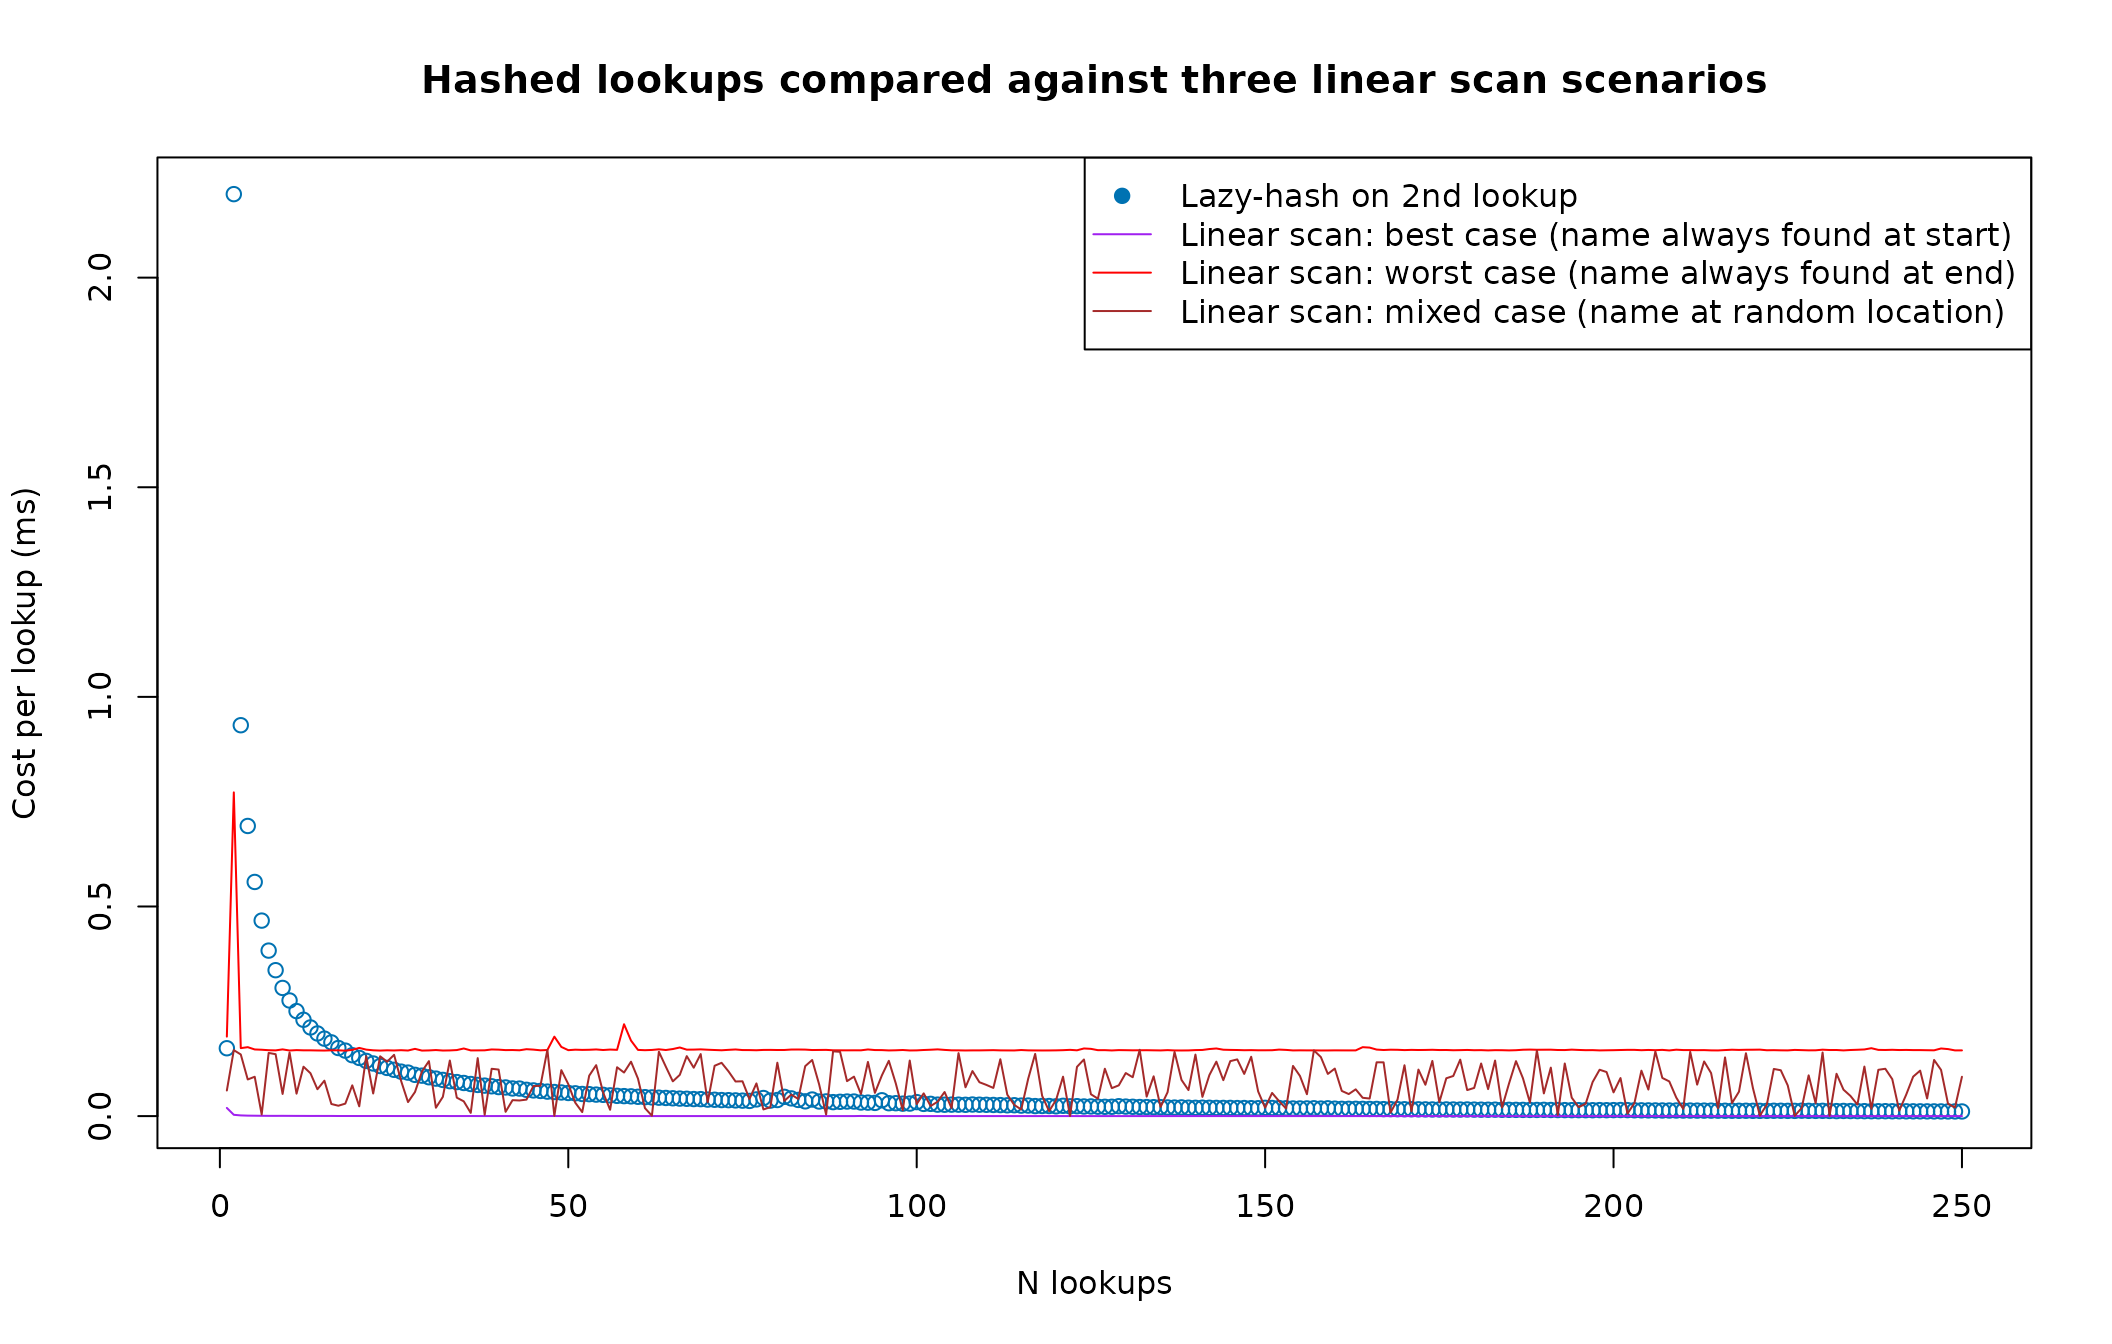
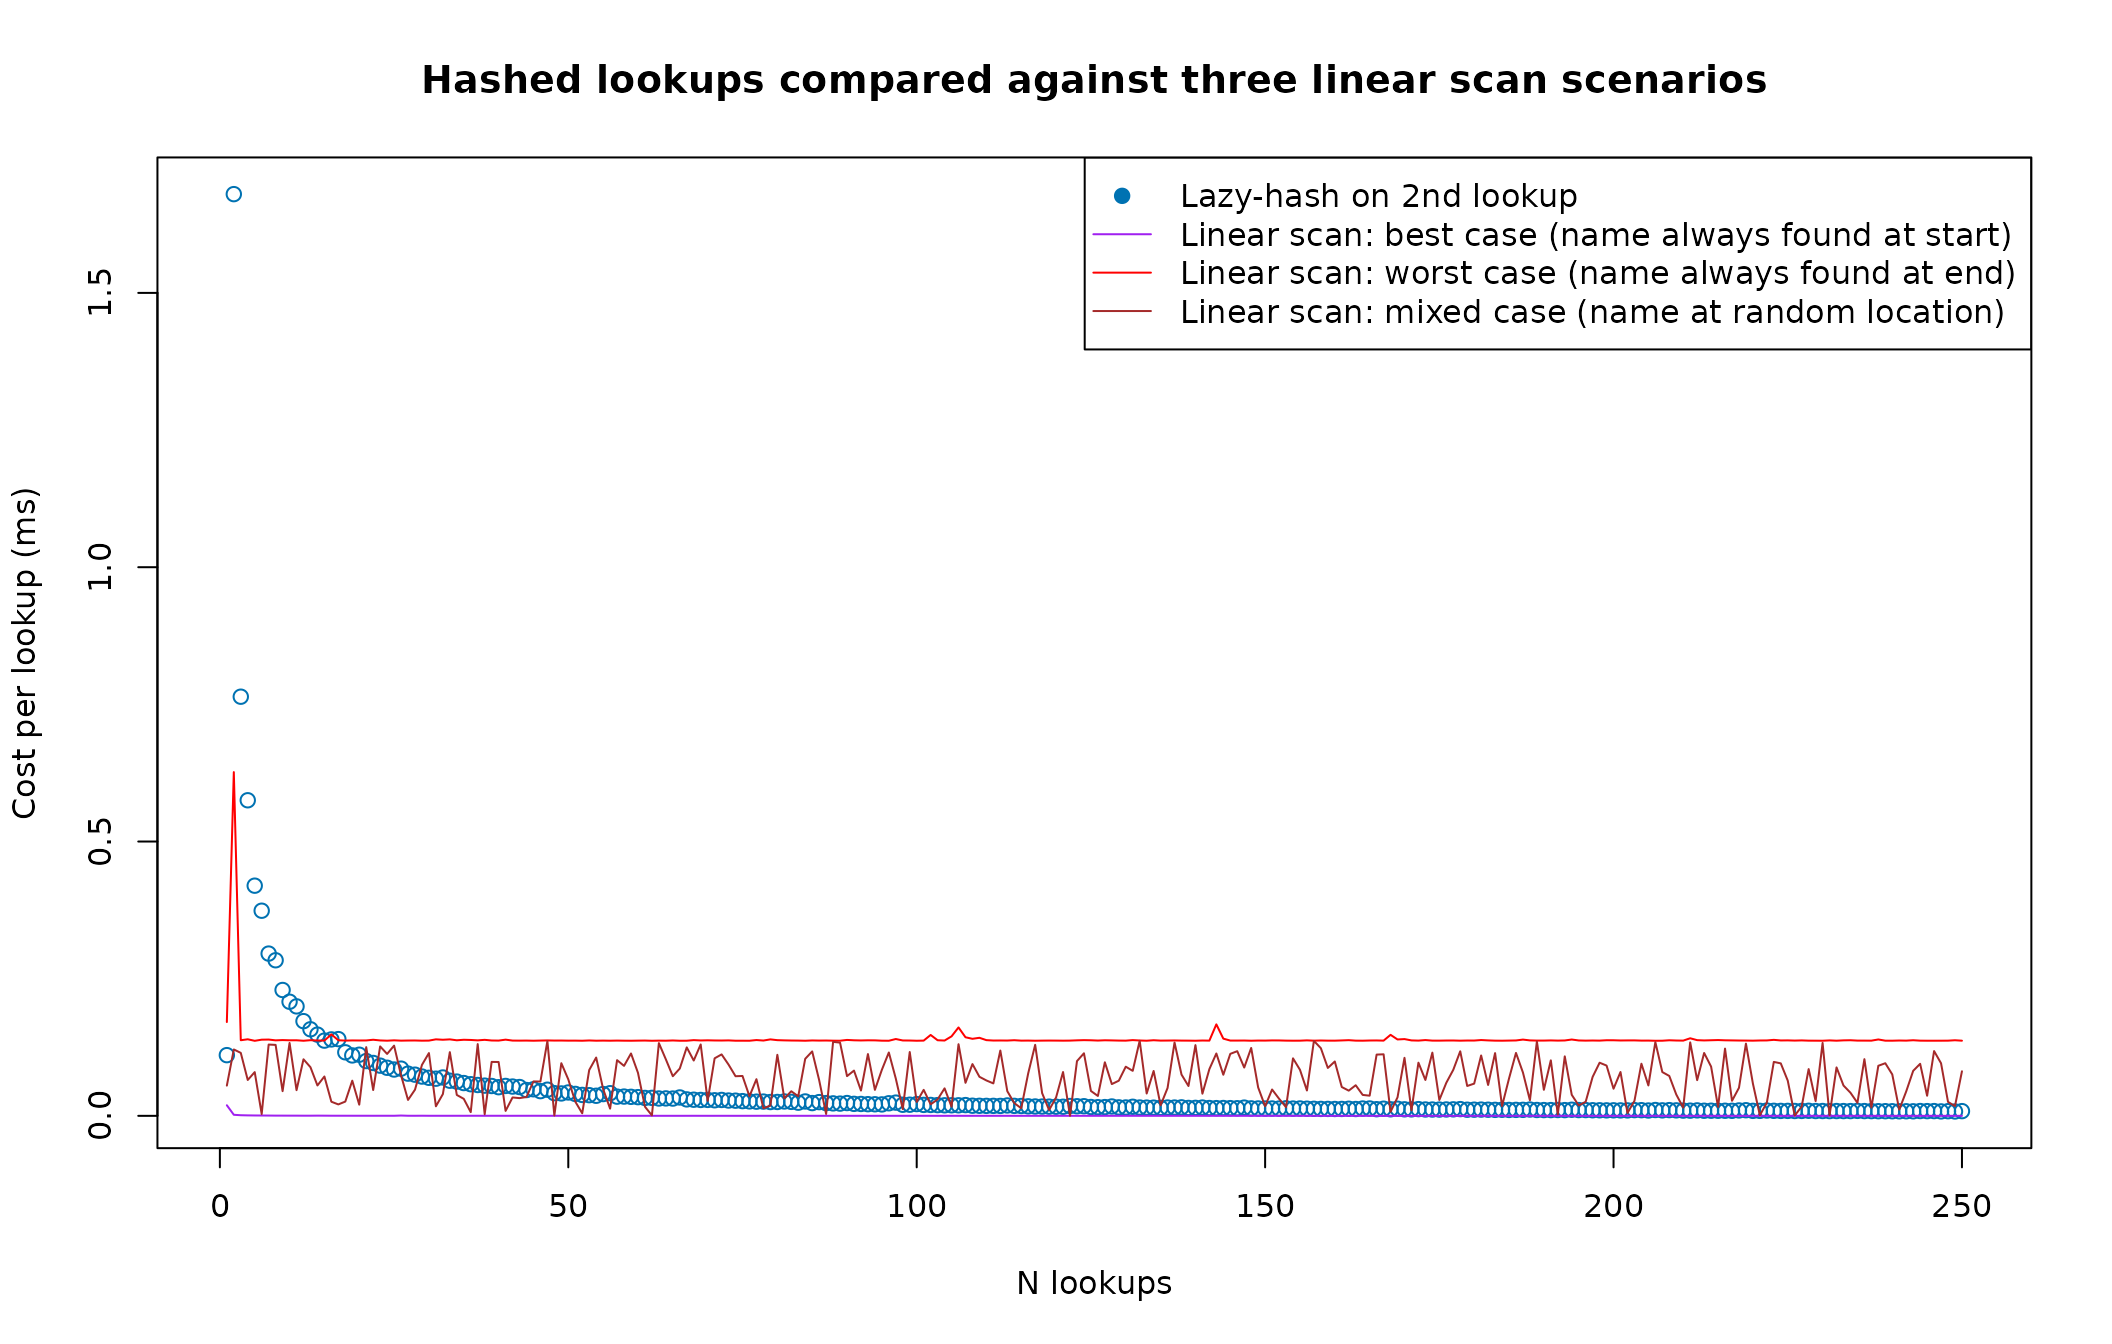
Deploying to gh-pages from @ NicChr/cppally@c7691c83b9be47e6edefd5938c57328c3f27da44 🚀

diff --git a/articles/protection.html b/articles/protection.html
@@ -144,12 +144,12 @@ optimisations.</p>
 <div class="sourceCode" id="cb4"><pre class="downlit sourceCode r">
 <code class="sourceCode R"><span><span class="va">insert_release_cpp11</span> <span class="op">&lt;-</span> <span class="fu"><a href="https://rdrr.io/r/base/lapply.html" class="external-link">replicate</a></span><span class="op">(</span><span class="fl">10</span><span class="op">^</span><span class="fl">4</span>, <span class="fu">bench_protect_insert_release_cpp11</span><span class="op">(</span><span class="fl">10</span><span class="op">^</span><span class="fl">4</span><span class="op">)</span><span class="op">)</span> </span>
 <span><span class="fu"><a href="https://rdrr.io/r/base/mean.html" class="external-link">mean</a></span><span class="op">(</span><span class="va">insert_release_cpp11</span><span class="op">)</span></span>
-<span><span class="co">#&gt; [1] 40.01544</span></span>
+<span><span class="co">#&gt; [1] 39.21264</span></span>
 <span><span class="va">insert_release_cppally</span> <span class="op">&lt;-</span> <span class="fu"><a href="https://rdrr.io/r/base/lapply.html" class="external-link">replicate</a></span><span class="op">(</span><span class="fl">10</span><span class="op">^</span><span class="fl">4</span>, <span class="fu">bench_protect_insert_release_cppally</span><span class="op">(</span><span class="fl">10</span><span class="op">^</span><span class="fl">4</span><span class="op">)</span><span class="op">)</span></span>
 <span><span class="fu"><a href="https://rdrr.io/r/base/mean.html" class="external-link">mean</a></span><span class="op">(</span><span class="va">insert_release_cppally</span><span class="op">)</span></span>
-<span><span class="co">#&gt; [1] 16.31846</span></span></code></pre></div>
-<p>On my machine, cpp11 performs an insert &amp; release every ~40
-nanoseconds. cppally performs better, with ~16 nanoseconds per insert
+<span><span class="co">#&gt; [1] 13.7383</span></span></code></pre></div>
+<p>On my machine, cpp11 performs an insert &amp; release every ~39
+nanoseconds. cppally performs better, with ~14 nanoseconds per insert
 &amp; release.</p>
 <p><strong>Copy benchmark</strong></p>
 <div class="sourceCode" id="cb5"><pre class="sourceCode cpp"><code class="sourceCode cpp"><span id="cb5-1"><a href="#cb5-1" tabindex="-1"></a></span>
@@ -195,10 +195,10 @@ nanoseconds. cppally performs better, with ~16 nanoseconds per insert
 <div class="sourceCode" id="cb7"><pre class="downlit sourceCode r">
 <code class="sourceCode R"><span><span class="va">copy_sexp_cpp11</span> <span class="op">&lt;-</span> <span class="fu"><a href="https://rdrr.io/r/base/lapply.html" class="external-link">replicate</a></span><span class="op">(</span><span class="fl">10</span><span class="op">^</span><span class="fl">4</span>, <span class="fu">bench_protect_copy_cpp11</span><span class="op">(</span><span class="fl">10</span><span class="op">^</span><span class="fl">4</span><span class="op">)</span><span class="op">)</span></span>
 <span><span class="fu"><a href="https://rdrr.io/r/base/mean.html" class="external-link">mean</a></span><span class="op">(</span><span class="va">copy_sexp_cpp11</span><span class="op">)</span></span>
-<span><span class="co">#&gt; [1] 37.97081</span></span>
+<span><span class="co">#&gt; [1] 37.50079</span></span>
 <span><span class="va">copy_sexp_cppally</span> <span class="op">&lt;-</span> <span class="fu"><a href="https://rdrr.io/r/base/lapply.html" class="external-link">replicate</a></span><span class="op">(</span><span class="fl">10</span><span class="op">^</span><span class="fl">4</span>, <span class="fu">bench_protect_copy_cppally</span><span class="op">(</span><span class="fl">10</span><span class="op">^</span><span class="fl">4</span><span class="op">)</span><span class="op">)</span></span>
 <span><span class="fu"><a href="https://rdrr.io/r/base/mean.html" class="external-link">mean</a></span><span class="op">(</span><span class="va">copy_sexp_cppally</span><span class="op">)</span></span>
-<span><span class="co">#&gt; [1] 0.3161358</span></span></code></pre></div>
+<span><span class="co">#&gt; [1] 0.275465</span></span></code></pre></div>
 <p>In these benchmark results we can see a drastic difference, with
 cpp11 at ~38 ns/copy and cppally at ~0.3 ns/copy.</p>
 <p><strong>Impact of protection overhead, a real example</strong></p>
@@ -259,21 +259,21 @@ values in a character vector</p>
 <span><span class="co">#&gt; <span style="color: #949494;"># A tibble: 1 × 6</span></span></span>
 <span><span class="co">#&gt;   expression         min   median `itr/sec` mem_alloc `gc/sec`</span></span>
 <span><span class="co">#&gt;   <span style="color: #949494; font-style: italic;">&lt;bch:expr&gt;</span>    <span style="color: #949494; font-style: italic;">&lt;bch:tm&gt;</span> <span style="color: #949494; font-style: italic;">&lt;bch:tm&gt;</span>     <span style="color: #949494; font-style: italic;">&lt;dbl&gt;</span> <span style="color: #949494; font-style: italic;">&lt;bch:byt&gt;</span>    <span style="color: #949494; font-style: italic;">&lt;dbl&gt;</span></span></span>
-<span><span class="co">#&gt; <span style="color: #BCBCBC;">1</span> C_na_count(x)   35.6µs   63.6µs    <span style="text-decoration: underline;">15</span>542.        0B        0</span></span></code></pre></div>
+<span><span class="co">#&gt; <span style="color: #BCBCBC;">1</span> C_na_count(x)   31.2µs   55.5µs    <span style="text-decoration: underline;">17</span>916.        0B        0</span></span></code></pre></div>
 <p><strong>cpp11 results</strong></p>
 <div class="sourceCode" id="cb13"><pre class="downlit sourceCode r">
 <code class="sourceCode R"><span><span class="fu"><a href="https://bench.r-lib.org/reference/mark.html" class="external-link">mark</a></span><span class="op">(</span><span class="fu">cpp11_na_count</span><span class="op">(</span><span class="va">x</span><span class="op">)</span><span class="op">)</span></span>
 <span><span class="co">#&gt; <span style="color: #949494;"># A tibble: 1 × 6</span></span></span>
 <span><span class="co">#&gt;   expression             min   median `itr/sec` mem_alloc `gc/sec`</span></span>
 <span><span class="co">#&gt;   <span style="color: #949494; font-style: italic;">&lt;bch:expr&gt;</span>        <span style="color: #949494; font-style: italic;">&lt;bch:tm&gt;</span> <span style="color: #949494; font-style: italic;">&lt;bch:tm&gt;</span>     <span style="color: #949494; font-style: italic;">&lt;dbl&gt;</span> <span style="color: #949494; font-style: italic;">&lt;bch:byt&gt;</span>    <span style="color: #949494; font-style: italic;">&lt;dbl&gt;</span></span></span>
-<span><span class="co">#&gt; <span style="color: #BCBCBC;">1</span> cpp11_na_count(x)   6.68ms   6.85ms      144.        0B     48.1</span></span></code></pre></div>
+<span><span class="co">#&gt; <span style="color: #BCBCBC;">1</span> cpp11_na_count(x)   6.15ms   7.16ms      142.        0B     47.3</span></span></code></pre></div>
 <p><strong>cppally results</strong></p>
 <div class="sourceCode" id="cb14"><pre class="downlit sourceCode r">
 <code class="sourceCode R"><span><span class="fu"><a href="https://bench.r-lib.org/reference/mark.html" class="external-link">mark</a></span><span class="op">(</span><span class="fu">cppally_na_count</span><span class="op">(</span><span class="va">x</span><span class="op">)</span><span class="op">)</span></span>
 <span><span class="co">#&gt; <span style="color: #949494;"># A tibble: 1 × 6</span></span></span>
 <span><span class="co">#&gt;   expression               min   median `itr/sec` mem_alloc `gc/sec`</span></span>
 <span><span class="co">#&gt;   <span style="color: #949494; font-style: italic;">&lt;bch:expr&gt;</span>          <span style="color: #949494; font-style: italic;">&lt;bch:tm&gt;</span> <span style="color: #949494; font-style: italic;">&lt;bch:tm&gt;</span>     <span style="color: #949494; font-style: italic;">&lt;dbl&gt;</span> <span style="color: #949494; font-style: italic;">&lt;bch:byt&gt;</span>    <span style="color: #949494; font-style: italic;">&lt;dbl&gt;</span></span></span>
-<span><span class="co">#&gt; <span style="color: #BCBCBC;">1</span> cppally_na_count(x)   1.46ms   1.47ms      676.        0B        0</span></span></code></pre></div>
+<span><span class="co">#&gt; <span style="color: #BCBCBC;">1</span> cppally_na_count(x)    1.1ms    1.1ms      904.        0B        0</span></span></code></pre></div>
 <p>Counting values is a simple operation and because of its simplicity,
 the overhead associated with protection will dominate the benchmark. We
 can see that when removing the protection overhead and using the R C API
@@ -315,7 +315,7 @@ non-owning version of <code>r_str</code>.</p>
 <span><span class="co">#&gt; <span style="color: #949494;"># A tibble: 1 × 6</span></span></span>
 <span><span class="co">#&gt;   expression                    min   median `itr/sec` mem_alloc `gc/sec`</span></span>
 <span><span class="co">#&gt;   <span style="color: #949494; font-style: italic;">&lt;bch:expr&gt;</span>               <span style="color: #949494; font-style: italic;">&lt;bch:tm&gt;</span> <span style="color: #949494; font-style: italic;">&lt;bch:tm&gt;</span>     <span style="color: #949494; font-style: italic;">&lt;dbl&gt;</span> <span style="color: #949494; font-style: italic;">&lt;bch:byt&gt;</span>    <span style="color: #949494; font-style: italic;">&lt;dbl&gt;</span></span></span>
-<span><span class="co">#&gt; <span style="color: #BCBCBC;">1</span> cppally_fast_na_count(x)   63.5µs   63.9µs    <span style="text-decoration: underline;">15</span>352.        0B        0</span></span></code></pre></div>
+<span><span class="co">#&gt; <span style="color: #BCBCBC;">1</span> cppally_fast_na_count(x)   55.3µs   55.6µs    <span style="text-decoration: underline;">17</span>741.        0B        0</span></span></code></pre></div>
 <p>Looking at the benchmark results, we have effectively eliminated the
 protection overhead and the median execution time is much closer to that
 of the R C API.</p>
@@ -342,7 +342,7 @@ context.</p>
 <span><span class="co">#&gt; <span style="color: #949494;"># A tibble: 1 × 6</span></span></span>
 <span><span class="co">#&gt;   expression                       min   median `itr/sec` mem_alloc `gc/sec`</span></span>
 <span><span class="co">#&gt;   <span style="color: #949494; font-style: italic;">&lt;bch:expr&gt;</span>                  <span style="color: #949494; font-style: italic;">&lt;bch:tm&gt;</span> <span style="color: #949494; font-style: italic;">&lt;bch:tm&gt;</span>     <span style="color: #949494; font-style: italic;">&lt;dbl&gt;</span> <span style="color: #949494; font-style: italic;">&lt;bch:byt&gt;</span>    <span style="color: #949494; font-style: italic;">&lt;dbl&gt;</span></span></span>
-<span><span class="co">#&gt; <span style="color: #BCBCBC;">1</span> cppally_fast_na_count_v2(x)   43.9µs   63.9µs    <span style="text-decoration: underline;">15</span>499.        0B     2.01</span></span></code></pre></div>
+<span><span class="co">#&gt; <span style="color: #BCBCBC;">1</span> cppally_fast_na_count_v2(x)   31.5µs   55.6µs    <span style="text-decoration: underline;">17</span>873.        0B     2.01</span></span></code></pre></div>
 <p>The results are similar to that of
 <code>cppally_fast_na_count()</code>.</p>
 </div>

diff --git a/articles/vector_name_hashing.html b/articles/vector_name_hashing.html
@@ -120,12 +120,12 @@ index</p>
 <span><span class="co">#&gt; <span style="color: #949494;"># A tibble: 1 × 6</span></span></span>
 <span><span class="co">#&gt;   expression      min   median `itr/sec` mem_alloc `gc/sec`</span></span>
 <span><span class="co">#&gt;   <span style="color: #949494; font-style: italic;">&lt;bch:expr&gt;</span> <span style="color: #949494; font-style: italic;">&lt;bch:tm&gt;</span> <span style="color: #949494; font-style: italic;">&lt;bch:tm&gt;</span>     <span style="color: #949494; font-style: italic;">&lt;dbl&gt;</span> <span style="color: #949494; font-style: italic;">&lt;bch:byt&gt;</span>    <span style="color: #949494; font-style: italic;">&lt;dbl&gt;</span></span></span>
-<span><span class="co">#&gt; <span style="color: #BCBCBC;">1</span> large[[1]]    140ns    151ns  6<span style="text-decoration: underline;">096</span>764.        0B     610.</span></span>
+<span><span class="co">#&gt; <span style="color: #BCBCBC;">1</span> large[[1]]     90ns    110ns  8<span style="text-decoration: underline;">136</span>187.        0B     814.</span></span>
 <span><span class="fu"><a href="https://bench.r-lib.org/reference/mark.html" class="external-link">mark</a></span><span class="op">(</span><span class="va">large</span><span class="op">[[</span><span class="fu"><a href="https://rdrr.io/r/base/length.html" class="external-link">length</a></span><span class="op">(</span><span class="va">large</span><span class="op">)</span><span class="op">]</span><span class="op">]</span><span class="op">)</span></span>
 <span><span class="co">#&gt; <span style="color: #949494;"># A tibble: 1 × 6</span></span></span>
 <span><span class="co">#&gt;   expression                  min   median `itr/sec` mem_alloc `gc/sec`</span></span>
 <span><span class="co">#&gt;   <span style="color: #949494; font-style: italic;">&lt;bch:expr&gt;</span>             <span style="color: #949494; font-style: italic;">&lt;bch:tm&gt;</span> <span style="color: #949494; font-style: italic;">&lt;bch:tm&gt;</span>     <span style="color: #949494; font-style: italic;">&lt;dbl&gt;</span> <span style="color: #949494; font-style: italic;">&lt;bch:byt&gt;</span>    <span style="color: #949494; font-style: italic;">&lt;dbl&gt;</span></span></span>
-<span><span class="co">#&gt; <span style="color: #BCBCBC;">1</span> large[[length(large)]]    230ns    251ns  3<span style="text-decoration: underline;">736</span>916.        0B        0</span></span></code></pre></div>
+<span><span class="co">#&gt; <span style="color: #BCBCBC;">1</span> large[[length(large)]]    150ns    180ns  5<span style="text-decoration: underline;">186</span>138.        0B        0</span></span></code></pre></div>
 <p>Since R scans the names each time, lookup by name is O(n) and can be
 slow if names happen to be near the end of the vector</p>
 <div class="sourceCode" id="cb6"><pre class="downlit sourceCode r">
@@ -136,8 +136,8 @@ slow if names happen to be near the end of the vector</p>
 <span><span class="co">#&gt; <span style="color: #949494;"># A tibble: 2 × 6</span></span></span>
 <span><span class="co">#&gt;   expression      min   median `itr/sec` mem_alloc `gc/sec`</span></span>
 <span><span class="co">#&gt;   <span style="color: #949494; font-style: italic;">&lt;bch:expr&gt;</span> <span style="color: #949494; font-style: italic;">&lt;bch:tm&gt;</span> <span style="color: #949494; font-style: italic;">&lt;bch:tm&gt;</span>     <span style="color: #949494; font-style: italic;">&lt;dbl&gt;</span> <span style="color: #949494; font-style: italic;">&lt;bch:byt&gt;</span>    <span style="color: #949494; font-style: italic;">&lt;dbl&gt;</span></span></span>
-<span><span class="co">#&gt; <span style="color: #BCBCBC;">1</span> by_name       150ns    171ns  5<span style="text-decoration: underline;">388</span>833.        0B     539.</span></span>
-<span><span class="co">#&gt; <span style="color: #BCBCBC;">2</span> by_index      130ns    151ns  6<span style="text-decoration: underline;">024</span>052.        0B       0</span></span>
+<span><span class="co">#&gt; <span style="color: #BCBCBC;">1</span> by_name       100ns    120ns  7<span style="text-decoration: underline;">236</span>215.        0B     724.</span></span>
+<span><span class="co">#&gt; <span style="color: #BCBCBC;">2</span> by_index       90ns    110ns  8<span style="text-decoration: underline;">222</span>845.        0B       0</span></span>
 <span></span>
 <span><span class="fu"><a href="https://bench.r-lib.org/reference/mark.html" class="external-link">mark</a></span><span class="op">(</span></span>
 <span>    by_name <span class="op">=</span> <span class="va">large</span><span class="op">[[</span><span class="st">"name_100000"</span><span class="op">]</span><span class="op">]</span>, </span>
@@ -146,8 +146,8 @@ slow if names happen to be near the end of the vector</p>
 <span><span class="co">#&gt; <span style="color: #949494;"># A tibble: 2 × 6</span></span></span>
 <span><span class="co">#&gt;   expression      min   median `itr/sec` mem_alloc `gc/sec`</span></span>
 <span><span class="co">#&gt;   <span style="color: #949494; font-style: italic;">&lt;bch:expr&gt;</span> <span style="color: #949494; font-style: italic;">&lt;bch:tm&gt;</span> <span style="color: #949494; font-style: italic;">&lt;bch:tm&gt;</span>     <span style="color: #949494; font-style: italic;">&lt;dbl&gt;</span> <span style="color: #949494; font-style: italic;">&lt;bch:byt&gt;</span>    <span style="color: #949494; font-style: italic;">&lt;dbl&gt;</span></span></span>
-<span><span class="co">#&gt; <span style="color: #BCBCBC;">1</span> by_name       535µs    548µs     <span style="text-decoration: underline;">1</span>789.        0B        0</span></span>
-<span><span class="co">#&gt; <span style="color: #BCBCBC;">2</span> by_index      130ns    151ns  6<span style="text-decoration: underline;">087</span>983.        0B        0</span></span></code></pre></div>
+<span><span class="co">#&gt; <span style="color: #BCBCBC;">1</span> by_name     466.2µs    476µs     <span style="text-decoration: underline;">2</span>098.        0B        0</span></span>
+<span><span class="co">#&gt; <span style="color: #BCBCBC;">2</span> by_index     89.9ns    110ns  8<span style="text-decoration: underline;">618</span>697.        0B        0</span></span></code></pre></div>
 <p>If we created a hash table of names-values, we could speedup repeated
 lookups</p>
 <div class="sourceCode" id="cb7"><pre class="downlit sourceCode r">
@@ -171,9 +171,9 @@ hashed name</p>
 <span><span class="co">#&gt; <span style="color: #949494;"># A tibble: 3 × 6</span></span></span>
 <span><span class="co">#&gt;   expression          min   median `itr/sec` mem_alloc `gc/sec`</span></span>
 <span><span class="co">#&gt;   <span style="color: #949494; font-style: italic;">&lt;bch:expr&gt;</span>     <span style="color: #949494; font-style: italic;">&lt;bch:tm&gt;</span> <span style="color: #949494; font-style: italic;">&lt;bch:tm&gt;</span>     <span style="color: #949494; font-style: italic;">&lt;dbl&gt;</span> <span style="color: #949494; font-style: italic;">&lt;bch:byt&gt;</span>    <span style="color: #949494; font-style: italic;">&lt;dbl&gt;</span></span></span>
-<span><span class="co">#&gt; <span style="color: #BCBCBC;">1</span> by_name           539µs    553µs     <span style="text-decoration: underline;">1</span>796.        0B        0</span></span>
-<span><span class="co">#&gt; <span style="color: #BCBCBC;">2</span> by_index          130ns    151ns  6<span style="text-decoration: underline;">004</span>435.        0B        0</span></span>
-<span><span class="co">#&gt; <span style="color: #BCBCBC;">3</span> by_hashed_name    881ns    921ns   <span style="text-decoration: underline;">778</span>263.        0B        0</span></span></code></pre></div>
+<span><span class="co">#&gt; <span style="color: #BCBCBC;">1</span> by_name           468µs    477µs     <span style="text-decoration: underline;">2</span>091.        0B        0</span></span>
+<span><span class="co">#&gt; <span style="color: #BCBCBC;">2</span> by_index           90ns    110ns  8<span style="text-decoration: underline;">143</span>846.        0B        0</span></span>
+<span><span class="co">#&gt; <span style="color: #BCBCBC;">3</span> by_hashed_name    641ns    701ns   <span style="text-decoration: underline;">960</span>707.        0B        0</span></span></code></pre></div>
 <p>That worked! Extracting the value associated with the last name using
 the hash table was almost as fast as looking it up by location.</p>
 <p>cppally uses this same approach internally, attaching a lazy hash map
@@ -305,8 +305,8 @@ R and C++</p>
 <span><span class="co">#&gt; <span style="color: #949494;"># A tibble: 2 × 6</span></span></span>
 <span><span class="co">#&gt;   expression              min   median `itr/sec` mem_alloc `gc/sec`</span></span>
 <span><span class="co">#&gt;   <span style="color: #949494; font-style: italic;">&lt;bch:expr&gt;</span>         <span style="color: #949494; font-style: italic;">&lt;bch:tm&gt;</span> <span style="color: #949494; font-style: italic;">&lt;bch:tm&gt;</span>     <span style="color: #949494; font-style: italic;">&lt;dbl&gt;</span> <span style="color: #949494; font-style: italic;">&lt;bch:byt&gt;</span>    <span style="color: #949494; font-style: italic;">&lt;dbl&gt;</span></span></span>
-<span><span class="co">#&gt; <span style="color: #BCBCBC;">1</span> cppally_one_lookup   33.5µs     34µs    <span style="text-decoration: underline;">28</span>378.        0B        0</span></span>
-<span><span class="co">#&gt; <span style="color: #BCBCBC;">2</span> base_one_lookup       541µs    553µs     <span style="text-decoration: underline;">1</span>808.    21.6KB        0</span></span></code></pre></div>
+<span><span class="co">#&gt; <span style="color: #BCBCBC;">1</span> cppally_one_lookup   28.9µs   29.6µs    <span style="text-decoration: underline;">32</span>680.        0B        0</span></span>
+<span><span class="co">#&gt; <span style="color: #BCBCBC;">2</span> base_one_lookup     468.9µs    479µs     <span style="text-decoration: underline;">2</span>079.    21.6KB        0</span></span></code></pre></div>
 <p>While I’m not sure why cppally’s linear scan is faster than R’s, it
 may be due to the fact that direct data access is used to compare
 elements instead of <code>STRING_ELT()</code></p>

diff --git a/reference/cpp_source.html b/reference/cpp_source.html
@@ -303,14 +303,14 @@ the <code>[[cppally::register]]</code> tagged functions to R. <br><code>cpp_eval
 <span class="r-in"><span><span class="fu"><a href="https://bench.r-lib.org/reference/mark.html" class="external-link">mark</a></span><span class="op">(</span><span class="fu">last_altrep_aware</span><span class="op">(</span><span class="fl">1</span><span class="op">:</span><span class="fl">10</span><span class="op">^</span><span class="fl">5</span><span class="op">)</span><span class="op">)</span> <span class="co"># No materialisation</span></span></span>
 <span class="r-out co"><span class="r-pr">#&gt;</span> <span style="color: #949494;"># A tibble: 1 × 13</span></span>
 <span class="r-out co"><span class="r-pr">#&gt;</span>   expression      min median `itr/sec` mem_alloc `gc/sec` n_itr  n_gc total_time</span>
-<span class="r-out co"><span class="r-pr">#&gt;</span>   <span style="color: #949494; font-style: italic;">&lt;bch:expr&gt;</span>   <span style="color: #949494; font-style: italic;">&lt;bch:&gt;</span> <span style="color: #949494; font-style: italic;">&lt;bch:&gt;</span>     <span style="color: #949494; font-style: italic;">&lt;dbl&gt;</span> <span style="color: #949494; font-style: italic;">&lt;bch:byt&gt;</span>    <span style="color: #949494; font-style: italic;">&lt;dbl&gt;</span> <span style="color: #949494; font-style: italic;">&lt;int&gt;</span> <span style="color: #949494; font-style: italic;">&lt;dbl&gt;</span>   <span style="color: #949494; font-style: italic;">&lt;bch:tm&gt;</span></span>
-<span class="r-out co"><span class="r-pr">#&gt;</span> <span style="color: #BCBCBC;">1</span> last_altrep… 4.09µs 4.86µs   <span style="text-decoration: underline;">186</span>131.    3.18KB        0 <span style="text-decoration: underline;">10</span>000     0     53.7ms</span>
+<span class="r-out co"><span class="r-pr">#&gt;</span>   <span style="color: #949494; font-style: italic;">&lt;bch:expr&gt;</span>    <span style="color: #949494; font-style: italic;">&lt;bch&gt;</span> <span style="color: #949494; font-style: italic;">&lt;bch:&gt;</span>     <span style="color: #949494; font-style: italic;">&lt;dbl&gt;</span> <span style="color: #949494; font-style: italic;">&lt;bch:byt&gt;</span>    <span style="color: #949494; font-style: italic;">&lt;dbl&gt;</span> <span style="color: #949494; font-style: italic;">&lt;int&gt;</span> <span style="color: #949494; font-style: italic;">&lt;dbl&gt;</span>   <span style="color: #949494; font-style: italic;">&lt;bch:tm&gt;</span></span>
+<span class="r-out co"><span class="r-pr">#&gt;</span> <span style="color: #BCBCBC;">1</span> last_altrep_… 2.9µs 4.36µs   <span style="text-decoration: underline;">226</span>021.    3.18KB        0 <span style="text-decoration: underline;">10</span>000     0     44.2ms</span>
 <span class="r-out co"><span class="r-pr">#&gt;</span> <span style="color: #949494;"># ℹ 4 more variables: result &lt;list&gt;, memory &lt;list&gt;, time &lt;list&gt;, gc &lt;list&gt;</span></span>
 <span class="r-in"><span><span class="fu"><a href="https://bench.r-lib.org/reference/mark.html" class="external-link">mark</a></span><span class="op">(</span><span class="fu">last_altrep_unaware</span><span class="op">(</span><span class="fl">1</span><span class="op">:</span><span class="fl">10</span><span class="op">^</span><span class="fl">5</span><span class="op">)</span><span class="op">)</span> <span class="co"># Materialises full vector</span></span></span>
 <span class="r-out co"><span class="r-pr">#&gt;</span> <span style="color: #949494;"># A tibble: 1 × 13</span></span>
 <span class="r-out co"><span class="r-pr">#&gt;</span>   expression      min median `itr/sec` mem_alloc `gc/sec` n_itr  n_gc total_time</span>
-<span class="r-out co"><span class="r-pr">#&gt;</span>   <span style="color: #949494; font-style: italic;">&lt;bch:expr&gt;</span>   <span style="color: #949494; font-style: italic;">&lt;bch:&gt;</span> <span style="color: #949494; font-style: italic;">&lt;bch:&gt;</span>     <span style="color: #949494; font-style: italic;">&lt;dbl&gt;</span> <span style="color: #949494; font-style: italic;">&lt;bch:byt&gt;</span>    <span style="color: #949494; font-style: italic;">&lt;dbl&gt;</span> <span style="color: #949494; font-style: italic;">&lt;int&gt;</span> <span style="color: #949494; font-style: italic;">&lt;dbl&gt;</span>   <span style="color: #949494; font-style: italic;">&lt;bch:tm&gt;</span></span>
-<span class="r-out co"><span class="r-pr">#&gt;</span> <span style="color: #BCBCBC;">1</span> last_altrep… 37.3µs 39.6µs    <span style="text-decoration: underline;">20</span>555.     391KB     166.  <span style="text-decoration: underline;">3</span>707    30      180ms</span>
+<span class="r-out co"><span class="r-pr">#&gt;</span>   <span style="color: #949494; font-style: italic;">&lt;bch:expr&gt;</span>    <span style="color: #949494; font-style: italic;">&lt;bch&gt;</span> <span style="color: #949494; font-style: italic;">&lt;bch:&gt;</span>     <span style="color: #949494; font-style: italic;">&lt;dbl&gt;</span> <span style="color: #949494; font-style: italic;">&lt;bch:byt&gt;</span>    <span style="color: #949494; font-style: italic;">&lt;dbl&gt;</span> <span style="color: #949494; font-style: italic;">&lt;int&gt;</span> <span style="color: #949494; font-style: italic;">&lt;dbl&gt;</span>   <span style="color: #949494; font-style: italic;">&lt;bch:tm&gt;</span></span>
+<span class="r-out co"><span class="r-pr">#&gt;</span> <span style="color: #BCBCBC;">1</span> last_altrep_…  31µs 31.8µs    <span style="text-decoration: underline;">26</span>836.     391KB     217.  <span style="text-decoration: underline;">3</span>707    30      138ms</span>
 <span class="r-out co"><span class="r-pr">#&gt;</span> <span style="color: #949494;"># ℹ 4 more variables: result &lt;list&gt;, memory &lt;list&gt;, time &lt;list&gt;, gc &lt;list&gt;</span></span>
 <span class="r-in"><span></span></span>
 <span class="r-in"><span><span class="co">### Copy-on-modify ###</span></span></span>
@@ -346,7 +346,7 @@ the <code>[[cppally::register]]</code> tagged functions to R. <br><code>cpp_eval
 <span class="r-out co"><span class="r-pr">#&gt;</span> <span style="color: #949494;"># A tibble: 1 × 13</span></span>
 <span class="r-out co"><span class="r-pr">#&gt;</span>   expression      min median `itr/sec` mem_alloc `gc/sec` n_itr  n_gc total_time</span>
 <span class="r-out co"><span class="r-pr">#&gt;</span>   <span style="color: #949494; font-style: italic;">&lt;bch:expr&gt;</span> <span style="color: #949494; font-style: italic;">&lt;bch:tm&gt;</span> <span style="color: #949494; font-style: italic;">&lt;bch:&gt;</span>     <span style="color: #949494; font-style: italic;">&lt;dbl&gt;</span> <span style="color: #949494; font-style: italic;">&lt;bch:byt&gt;</span>    <span style="color: #949494; font-style: italic;">&lt;dbl&gt;</span> <span style="color: #949494; font-style: italic;">&lt;int&gt;</span> <span style="color: #949494; font-style: italic;">&lt;dbl&gt;</span>   <span style="color: #949494; font-style: italic;">&lt;bch:tm&gt;</span></span>
-<span class="r-out co"><span class="r-pr">#&gt;</span> <span style="color: #BCBCBC;">1</span> reverse(x)    248µs  252µs     <span style="text-decoration: underline;">3</span>816.     391KB     28.7  <span style="text-decoration: underline;">1</span>731    13      454ms</span>
+<span class="r-out co"><span class="r-pr">#&gt;</span> <span style="color: #BCBCBC;">1</span> reverse(x)    181µs  220µs     <span style="text-decoration: underline;">4</span>427.     391KB     33.2  <span style="text-decoration: underline;">1</span>999    15      452ms</span>
 <span class="r-out co"><span class="r-pr">#&gt;</span> <span style="color: #949494;"># ℹ 4 more variables: result &lt;list&gt;, memory &lt;list&gt;, time &lt;list&gt;, gc &lt;list&gt;</span></span>
 <span class="r-in"><span></span></span>
 <span class="r-in"><span><span class="co"># The cppally preferred approach is to allocate a fresh vector or copy the</span></span></span>
@@ -373,9 +373,9 @@ the <code>[[cppally::register]]</code> tagged functions to R. <br><code>cpp_eval
 <span class="r-out co"><span class="r-pr">#&gt;</span> <span style="color: #949494;"># A tibble: 3 × 13</span></span>
 <span class="r-out co"><span class="r-pr">#&gt;</span>   expression     min  median `itr/sec` mem_alloc `gc/sec` n_itr  n_gc total_time</span>
 <span class="r-out co"><span class="r-pr">#&gt;</span>   <span style="color: #949494; font-style: italic;">&lt;bch:expr&gt;</span> <span style="color: #949494; font-style: italic;">&lt;bch:t&gt;</span> <span style="color: #949494; font-style: italic;">&lt;bch:t&gt;</span>     <span style="color: #949494; font-style: italic;">&lt;dbl&gt;</span> <span style="color: #949494; font-style: italic;">&lt;bch:byt&gt;</span>    <span style="color: #949494; font-style: italic;">&lt;dbl&gt;</span> <span style="color: #949494; font-style: italic;">&lt;int&gt;</span> <span style="color: #949494; font-style: italic;">&lt;dbl&gt;</span>   <span style="color: #949494; font-style: italic;">&lt;bch:tm&gt;</span></span>
-<span class="r-out co"><span class="r-pr">#&gt;</span> <span style="color: #BCBCBC;">1</span> r_reverse  220.4µs 223.1µs     <span style="text-decoration: underline;">4</span>012.     781KB     67.2  <span style="text-decoration: underline;">1</span>194    20      298ms</span>
-<span class="r-out co"><span class="r-pr">#&gt;</span> <span style="color: #BCBCBC;">2</span> cppally_c… 244.5µs 249.3µs     <span style="text-decoration: underline;">3</span>967.     391KB     31.0  <span style="text-decoration: underline;">1</span>792    14      452ms</span>
-<span class="r-out co"><span class="r-pr">#&gt;</span> <span style="color: #BCBCBC;">3</span> cppally_n…  58.7µs  63.7µs    <span style="text-decoration: underline;">11</span>609.     391KB     90.1  <span style="text-decoration: underline;">4</span>379    34      377ms</span>
+<span class="r-out co"><span class="r-pr">#&gt;</span> <span style="color: #BCBCBC;">1</span> r_reverse  178.6µs 187.4µs     <span style="text-decoration: underline;">5</span>111.     781KB     81.6  <span style="text-decoration: underline;">1</span>440    23      282ms</span>
+<span class="r-out co"><span class="r-pr">#&gt;</span> <span style="color: #BCBCBC;">2</span> cppally_c… 184.9µs   220µs     <span style="text-decoration: underline;">4</span>525.     391KB     33.1  <span style="text-decoration: underline;">2</span>051    15      453ms</span>
+<span class="r-out co"><span class="r-pr">#&gt;</span> <span style="color: #BCBCBC;">3</span> cppally_n…  43.1µs  58.1µs    <span style="text-decoration: underline;">17</span>175.     391KB    135.   <span style="text-decoration: underline;">6</span>124    48      357ms</span>
 <span class="r-out co"><span class="r-pr">#&gt;</span> <span style="color: #949494;"># ℹ 4 more variables: result &lt;list&gt;, memory &lt;list&gt;, time &lt;list&gt;, gc &lt;list&gt;</span></span>
 <span class="r-in"><span><span class="co"># }</span></span></span>
 <span class="r-in"><span></span></span>

diff --git a/articles/cppally.html b/articles/cppally.html
@@ -1227,8 +1227,8 @@ of number of unique values.</p>
 <span><span class="co">#&gt; <span style="color: #949494;"># A tibble: 2 × 6</span></span></span>
 <span><span class="co">#&gt;   expression            min   median `itr/sec` mem_alloc `gc/sec`</span></span>
 <span><span class="co">#&gt;   <span style="color: #949494; font-style: italic;">&lt;bch:expr&gt;</span>       <span style="color: #949494; font-style: italic;">&lt;bch:tm&gt;</span> <span style="color: #949494; font-style: italic;">&lt;bch:tm&gt;</span>     <span style="color: #949494; font-style: italic;">&lt;dbl&gt;</span> <span style="color: #949494; font-style: italic;">&lt;bch:byt&gt;</span>    <span style="color: #949494; font-style: italic;">&lt;dbl&gt;</span></span></span>
-<span><span class="co">#&gt; <span style="color: #BCBCBC;">1</span> base_n_unique       701µs    725µs     <span style="text-decoration: underline;">1</span>212.    1.38MB     36.4</span></span>
-<span><span class="co">#&gt; <span style="color: #BCBCBC;">2</span> cppally_n_unique    156µs    157µs     <span style="text-decoration: underline;">6</span>281.        0B      0</span></span></code></pre></div>
+<span><span class="co">#&gt; <span style="color: #BCBCBC;">1</span> base_n_unique       552µs    567µs     <span style="text-decoration: underline;">1</span>614.    1.38MB     47.1</span></span>
+<span><span class="co">#&gt; <span style="color: #BCBCBC;">2</span> cppally_n_unique    137µs    137µs     <span style="text-decoration: underline;">7</span>210.        0B      0</span></span></code></pre></div>
 <p>More useful sugar functions</p>
 <ul>
 <li><p><code><a href="https://rdrr.io/r/base/unique.html" class="external-link">unique()</a></code> - Like R’s <code><a href="https://rdrr.io/r/base/unique.html" class="external-link">unique()</a></code> but with a

diff --git a/articles/protection.md b/articles/protection.md
@@ -88,14 +88,14 @@ double bench_protect_insert_release_cppally(int n) {
 
 insert_release_cpp11 <- replicate(10^4, bench_protect_insert_release_cpp11(10^4)) 
 mean(insert_release_cpp11)
-#> [1] 40.01544
+#> [1] 39.21264
 insert_release_cppally <- replicate(10^4, bench_protect_insert_release_cppally(10^4))
 mean(insert_release_cppally)
-#> [1] 16.31846
+#> [1] 13.7383
 ```
 
-On my machine, cpp11 performs an insert & release every ~40 nanoseconds.
-cppally performs better, with ~16 nanoseconds per insert & release.
+On my machine, cpp11 performs an insert & release every ~39 nanoseconds.
+cppally performs better, with ~14 nanoseconds per insert & release.
 
 **Copy benchmark**
 
@@ -150,10 +150,10 @@ double bench_protect_copy_cppally(int n) {
 
 copy_sexp_cpp11 <- replicate(10^4, bench_protect_copy_cpp11(10^4))
 mean(copy_sexp_cpp11)
-#> [1] 37.97081
+#> [1] 37.50079
 copy_sexp_cppally <- replicate(10^4, bench_protect_copy_cppally(10^4))
 mean(copy_sexp_cppally)
-#> [1] 0.3161358
+#> [1] 0.275465
 ```
 
 In these benchmark results we can see a drastic difference, with cpp11
@@ -233,7 +233,7 @@ mark(C_na_count(x))
 #> # A tibble: 1 × 6
 #>   expression         min   median `itr/sec` mem_alloc `gc/sec`
 #>   <bch:expr>    <bch:tm> <bch:tm>     <dbl> <bch:byt>    <dbl>
-#> 1 C_na_count(x)   35.6µs   63.6µs    15542.        0B        0
+#> 1 C_na_count(x)   31.2µs   55.5µs    17916.        0B        0
 ```
 
 **cpp11 results**
@@ -244,7 +244,7 @@ mark(cpp11_na_count(x))
 #> # A tibble: 1 × 6
 #>   expression             min   median `itr/sec` mem_alloc `gc/sec`
 #>   <bch:expr>        <bch:tm> <bch:tm>     <dbl> <bch:byt>    <dbl>
-#> 1 cpp11_na_count(x)   6.68ms   6.85ms      144.        0B     48.1
+#> 1 cpp11_na_count(x)   6.15ms   7.16ms      142.        0B     47.3
 ```
 
 **cppally results**
@@ -255,7 +255,7 @@ mark(cppally_na_count(x))
 #> # A tibble: 1 × 6
 #>   expression               min   median `itr/sec` mem_alloc `gc/sec`
 #>   <bch:expr>          <bch:tm> <bch:tm>     <dbl> <bch:byt>    <dbl>
-#> 1 cppally_na_count(x)   1.46ms   1.47ms      676.        0B        0
+#> 1 cppally_na_count(x)    1.1ms    1.1ms      904.        0B        0
 ```
 
 Counting values is a simple operation and because of its simplicity, the
@@ -302,7 +302,7 @@ mark(cppally_fast_na_count(x))
 #> # A tibble: 1 × 6
 #>   expression                    min   median `itr/sec` mem_alloc `gc/sec`
 #>   <bch:expr>               <bch:tm> <bch:tm>     <dbl> <bch:byt>    <dbl>
-#> 1 cppally_fast_na_count(x)   63.5µs   63.9µs    15352.        0B        0
+#> 1 cppally_fast_na_count(x)   55.3µs   55.6µs    17741.        0B        0
 ```
 
 Looking at the benchmark results, we have effectively eliminated the
@@ -335,7 +335,7 @@ mark(cppally_fast_na_count_v2(x))
 #> # A tibble: 1 × 6
 #>   expression                       min   median `itr/sec` mem_alloc `gc/sec`
 #>   <bch:expr>                  <bch:tm> <bch:tm>     <dbl> <bch:byt>    <dbl>
-#> 1 cppally_fast_na_count_v2(x)   43.9µs   63.9µs    15499.        0B     2.01
+#> 1 cppally_fast_na_count_v2(x)   31.5µs   55.6µs    17873.        0B     2.01
 ```
 
 The results are similar to that of `cppally_fast_na_count()`.

diff --git a/articles/vector_name_hashing.md b/articles/vector_name_hashing.md
@@ -68,12 +68,12 @@ mark(large[[1]])
 #> # A tibble: 1 × 6
 #>   expression      min   median `itr/sec` mem_alloc `gc/sec`
 #>   <bch:expr> <bch:tm> <bch:tm>     <dbl> <bch:byt>    <dbl>
-#> 1 large[[1]]    140ns    151ns  6096764.        0B     610.
+#> 1 large[[1]]     90ns    110ns  8136187.        0B     814.
 mark(large[[length(large)]])
 #> # A tibble: 1 × 6
 #>   expression                  min   median `itr/sec` mem_alloc `gc/sec`
 #>   <bch:expr>             <bch:tm> <bch:tm>     <dbl> <bch:byt>    <dbl>
-#> 1 large[[length(large)]]    230ns    251ns  3736916.        0B        0
+#> 1 large[[length(large)]]    150ns    180ns  5186138.        0B        0
 ```
 
 Since R scans the names each time, lookup by name is O(n) and can be
@@ -88,8 +88,8 @@ mark(
 #> # A tibble: 2 × 6
 #>   expression      min   median `itr/sec` mem_alloc `gc/sec`
 #>   <bch:expr> <bch:tm> <bch:tm>     <dbl> <bch:byt>    <dbl>
-#> 1 by_name       150ns    171ns  5388833.        0B     539.
-#> 2 by_index      130ns    151ns  6024052.        0B       0
+#> 1 by_name       100ns    120ns  7236215.        0B     724.
+#> 2 by_index       90ns    110ns  8222845.        0B       0
 
 mark(
     by_name = large[["name_100000"]], 
@@ -98,8 +98,8 @@ mark(
 #> # A tibble: 2 × 6
 #>   expression      min   median `itr/sec` mem_alloc `gc/sec`
 #>   <bch:expr> <bch:tm> <bch:tm>     <dbl> <bch:byt>    <dbl>
-#> 1 by_name       535µs    548µs     1789.        0B        0
-#> 2 by_index      130ns    151ns  6087983.        0B        0
+#> 1 by_name     466.2µs    476µs     2098.        0B        0
+#> 2 by_index     89.9ns    110ns  8618697.        0B        0
 ```
 
 If we created a hash table of names-values, we could speedup repeated
@@ -131,9 +131,9 @@ mark(
 #> # A tibble: 3 × 6
 #>   expression          min   median `itr/sec` mem_alloc `gc/sec`
 #>   <bch:expr>     <bch:tm> <bch:tm>     <dbl> <bch:byt>    <dbl>
-#> 1 by_name           539µs    553µs     1796.        0B        0
-#> 2 by_index          130ns    151ns  6004435.        0B        0
-#> 3 by_hashed_name    881ns    921ns   778263.        0B        0
+#> 1 by_name           468µs    477µs     2091.        0B        0
+#> 2 by_index           90ns    110ns  8143846.        0B        0
+#> 3 by_hashed_name    641ns    701ns   960707.        0B        0
 ```
 
 That worked! Extracting the value associated with the last name using
@@ -293,8 +293,8 @@ mark(
 #> # A tibble: 2 × 6
 #>   expression              min   median `itr/sec` mem_alloc `gc/sec`
 #>   <bch:expr>         <bch:tm> <bch:tm>     <dbl> <bch:byt>    <dbl>
-#> 1 cppally_one_lookup   33.5µs     34µs    28378.        0B        0
-#> 2 base_one_lookup       541µs    553µs     1808.    21.6KB        0
+#> 1 cppally_one_lookup   28.9µs   29.6µs    32680.        0B        0
+#> 2 base_one_lookup     468.9µs    479µs     2079.    21.6KB        0
 ```
 
 While I’m not sure why cppally’s linear scan is faster than R’s, it may

diff --git a/reference/cpp_source.md b/reference/cpp_source.md
@@ -242,14 +242,14 @@ library(bench)
 mark(last_altrep_aware(1:10^5)) # No materialisation
 #> # A tibble: 1 × 13
 #>   expression      min median `itr/sec` mem_alloc `gc/sec` n_itr  n_gc total_time
-#>   <bch:expr>   <bch:> <bch:>     <dbl> <bch:byt>    <dbl> <int> <dbl>   <bch:tm>
-#> 1 last_altrep… 4.09µs 4.86µs   186131.    3.18KB        0 10000     0     53.7ms
+#>   <bch:expr>    <bch> <bch:>     <dbl> <bch:byt>    <dbl> <int> <dbl>   <bch:tm>
+#> 1 last_altrep_… 2.9µs 4.36µs   226021.    3.18KB        0 10000     0     44.2ms
 #> # ℹ 4 more variables: result <list>, memory <list>, time <list>, gc <list>
 mark(last_altrep_unaware(1:10^5)) # Materialises full vector
 #> # A tibble: 1 × 13
 #>   expression      min median `itr/sec` mem_alloc `gc/sec` n_itr  n_gc total_time
-#>   <bch:expr>   <bch:> <bch:>     <dbl> <bch:byt>    <dbl> <int> <dbl>   <bch:tm>
-#> 1 last_altrep… 37.3µs 39.6µs    20555.     391KB     166.  3707    30      180ms
+#>   <bch:expr>    <bch> <bch:>     <dbl> <bch:byt>    <dbl> <int> <dbl>   <bch:tm>
+#> 1 last_altrep_…  31µs 31.8µs    26836.     391KB     217.  3707    30      138ms
 #> # ℹ 4 more variables: result <list>, memory <list>, time <list>, gc <list>
 
 ### Copy-on-modify ###
@@ -285,7 +285,7 @@ mark(reverse(x)) # Memory allocated, therefore x was copied before reversing
 #> # A tibble: 1 × 13
 #>   expression      min median `itr/sec` mem_alloc `gc/sec` n_itr  n_gc total_time
 #>   <bch:expr> <bch:tm> <bch:>     <dbl> <bch:byt>    <dbl> <int> <dbl>   <bch:tm>
-#> 1 reverse(x)    248µs  252µs     3816.     391KB     28.7  1731    13      454ms
+#> 1 reverse(x)    181µs  220µs     4427.     391KB     33.2  1999    15      452ms
 #> # ℹ 4 more variables: result <list>, memory <list>, time <list>, gc <list>
 
 # The cppally preferred approach is to allocate a fresh vector or copy the
@@ -312,9 +312,9 @@ mark(
 #> # A tibble: 3 × 13
 #>   expression     min  median `itr/sec` mem_alloc `gc/sec` n_itr  n_gc total_time
 #>   <bch:expr> <bch:t> <bch:t>     <dbl> <bch:byt>    <dbl> <int> <dbl>   <bch:tm>
-#> 1 r_reverse  220.4µs 223.1µs     4012.     781KB     67.2  1194    20      298ms
-#> 2 cppally_c… 244.5µs 249.3µs     3967.     391KB     31.0  1792    14      452ms
-#> 3 cppally_n…  58.7µs  63.7µs    11609.     391KB     90.1  4379    34      377ms
+#> 1 r_reverse  178.6µs 187.4µs     5111.     781KB     81.6  1440    23      282ms
+#> 2 cppally_c… 184.9µs   220µs     4525.     391KB     33.1  2051    15      453ms
+#> 3 cppally_n…  43.1µs  58.1µs    17175.     391KB    135.   6124    48      357ms
 #> # ℹ 4 more variables: result <list>, memory <list>, time <list>, gc <list>
 # }
 ```

diff --git a/articles/cppally.md b/articles/cppally.md
@@ -1384,8 +1384,8 @@ mark(
 #> # A tibble: 2 × 6
 #>   expression            min   median `itr/sec` mem_alloc `gc/sec`
 #>   <bch:expr>       <bch:tm> <bch:tm>     <dbl> <bch:byt>    <dbl>
-#> 1 base_n_unique       701µs    725µs     1212.    1.38MB     36.4
-#> 2 cppally_n_unique    156µs    157µs     6281.        0B      0
+#> 1 base_n_unique       552µs    567µs     1614.    1.38MB     47.1
+#> 2 cppally_n_unique    137µs    137µs     7210.        0B      0
 ```
 
 More useful sugar functions